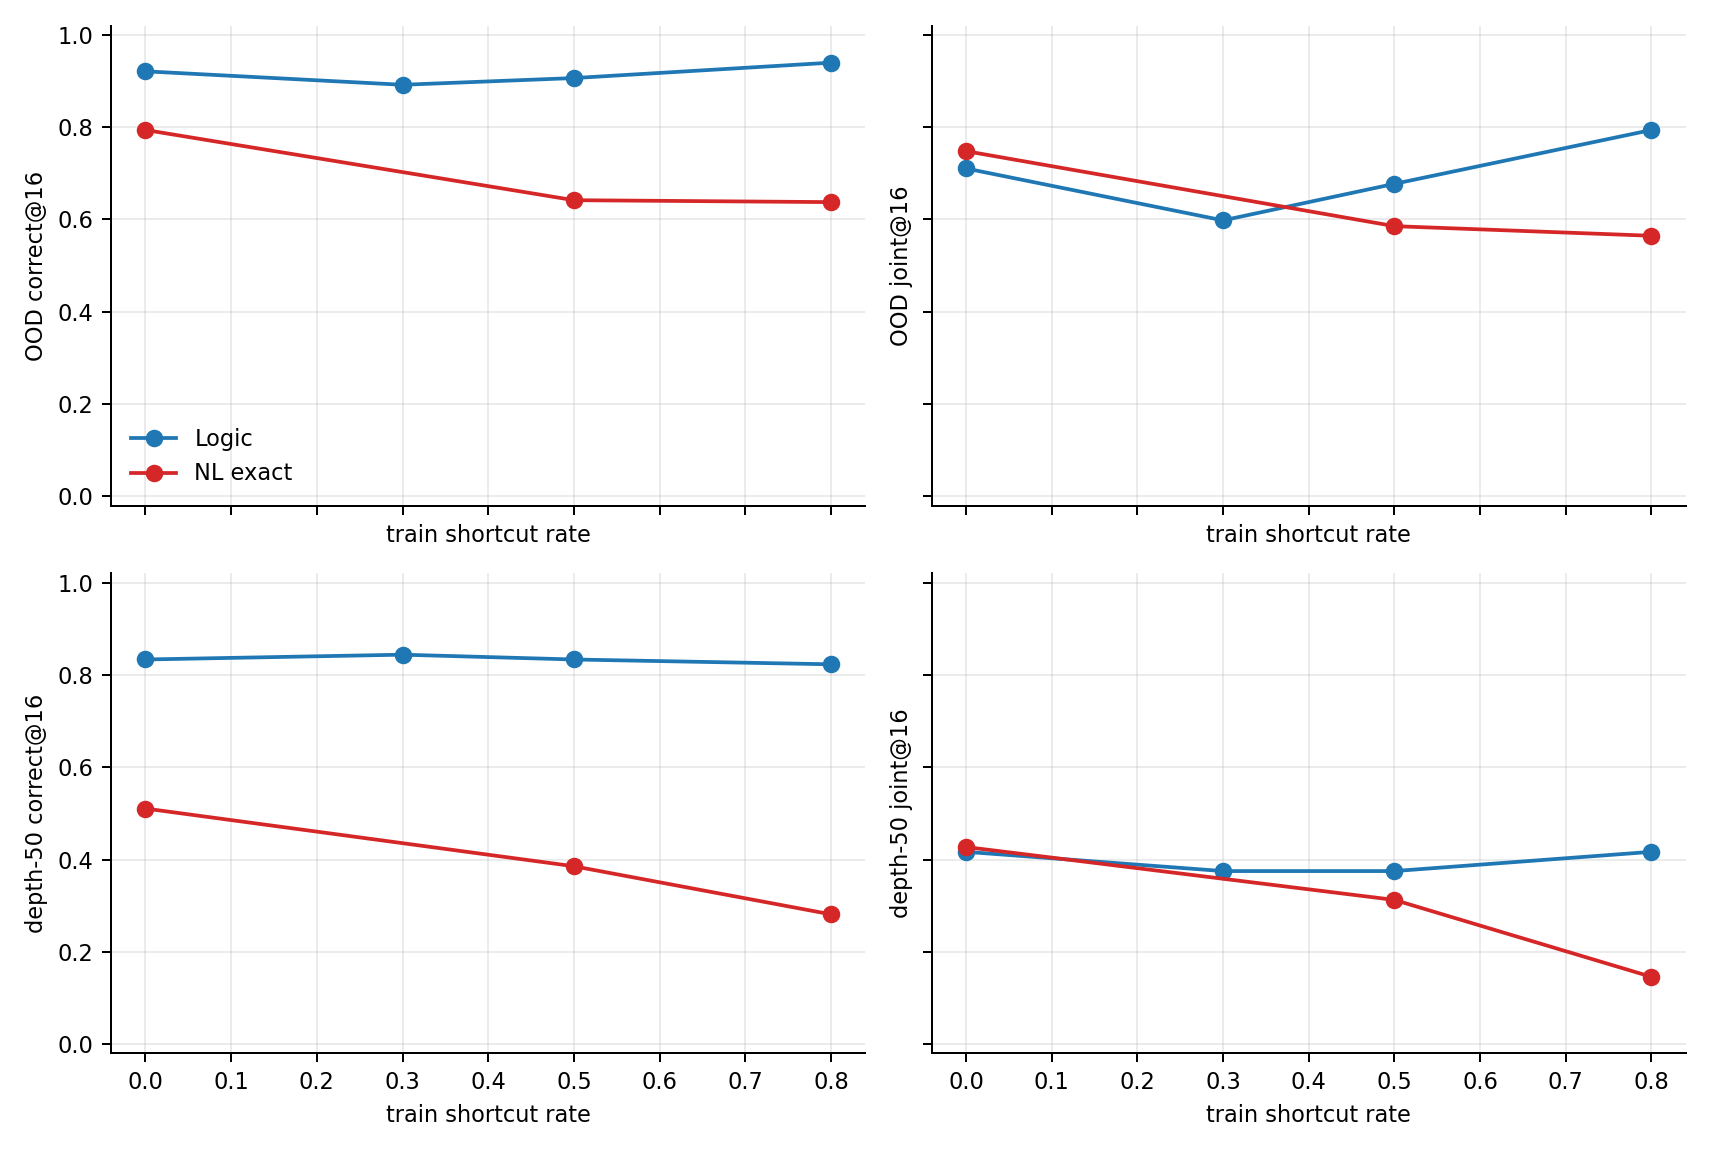
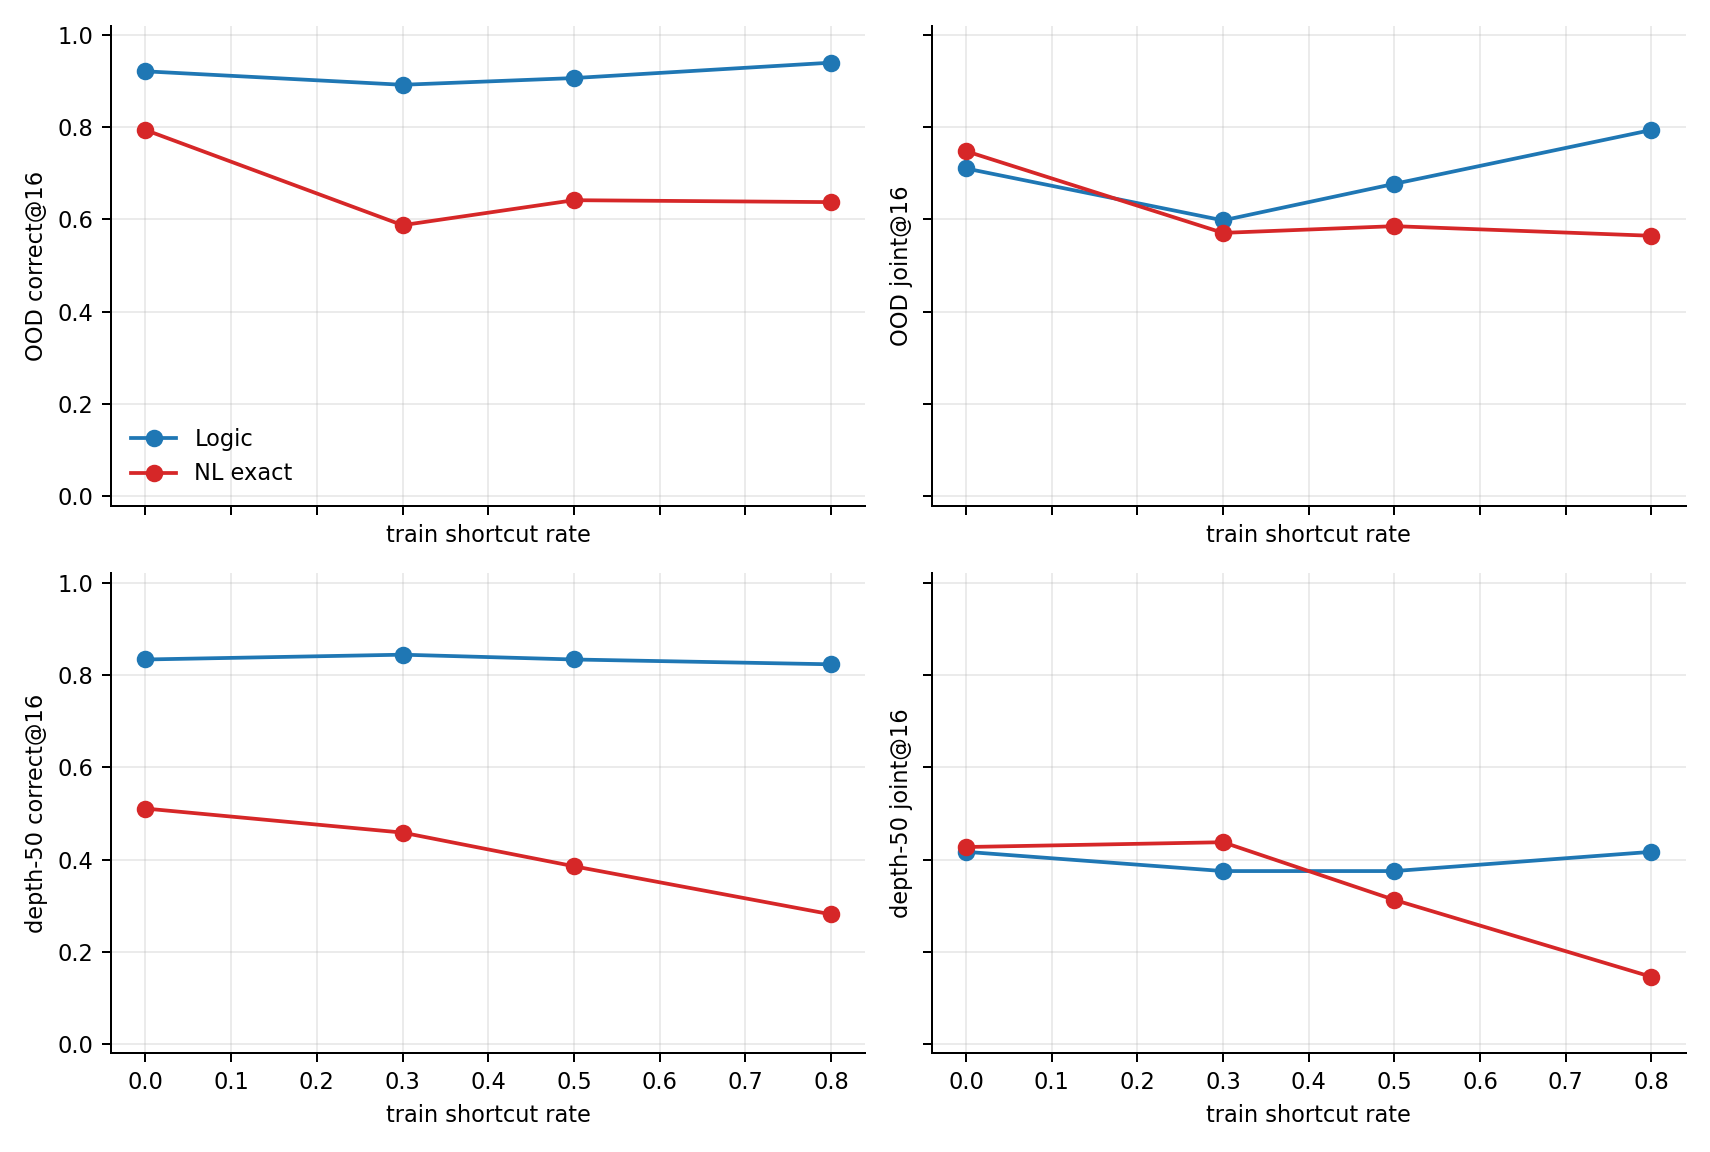
Mirror refreshed Slurm report bundle

diff --git a/main.tex b/main.tex
@@ -627,6 +627,7 @@ logic & 0.300 & 3 & 0.892 & 0.598 & 0.844 & 0.375 \\
 logic & 0.500 & 3 & 0.906 & 0.677 & 0.833 & 0.375 \\
 logic & 0.800 & 3 & 0.940 & 0.794 & 0.823 & 0.417 \\
 nl\_exact & 0.000 & 3 & 0.794 & 0.748 & 0.510 & 0.427 \\
+nl\_exact & 0.300 & 3 & 0.588 & 0.571 & 0.458 & 0.438 \\
 nl\_exact & 0.500 & 3 & 0.642 & 0.585 & 0.385 & 0.312 \\
 nl\_exact & 0.800 & 3 & 0.638 & 0.565 & 0.281 & 0.146 \\
 \bottomrule